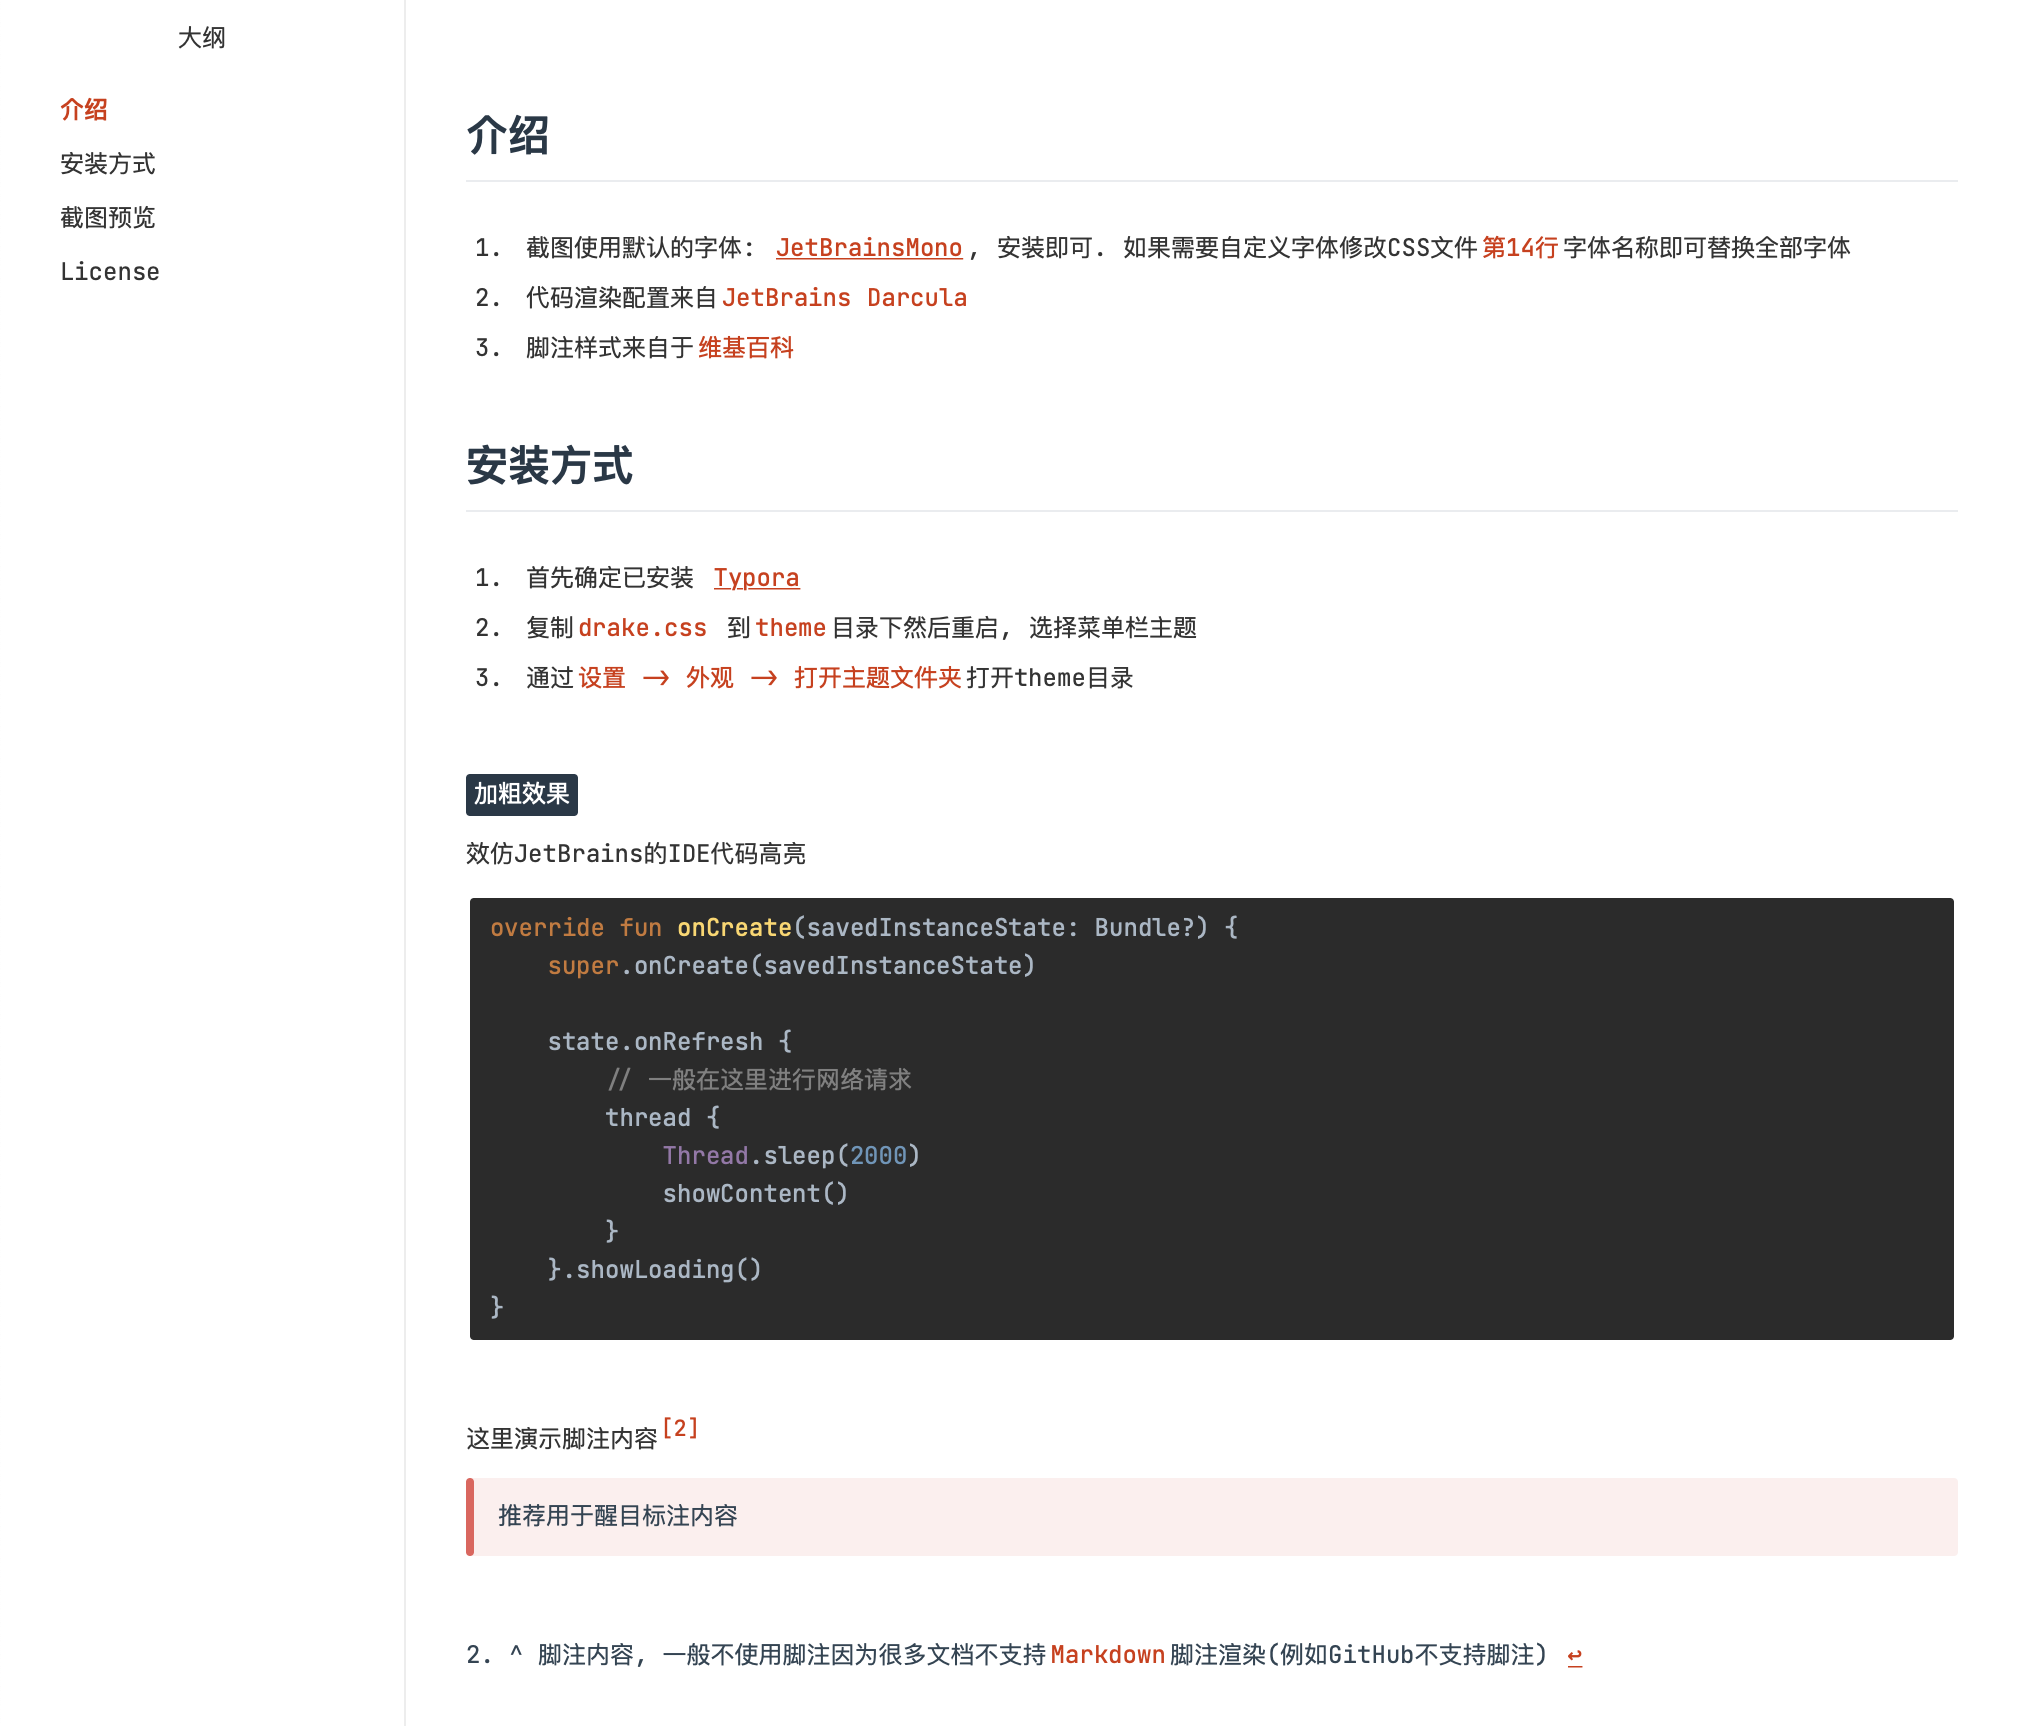
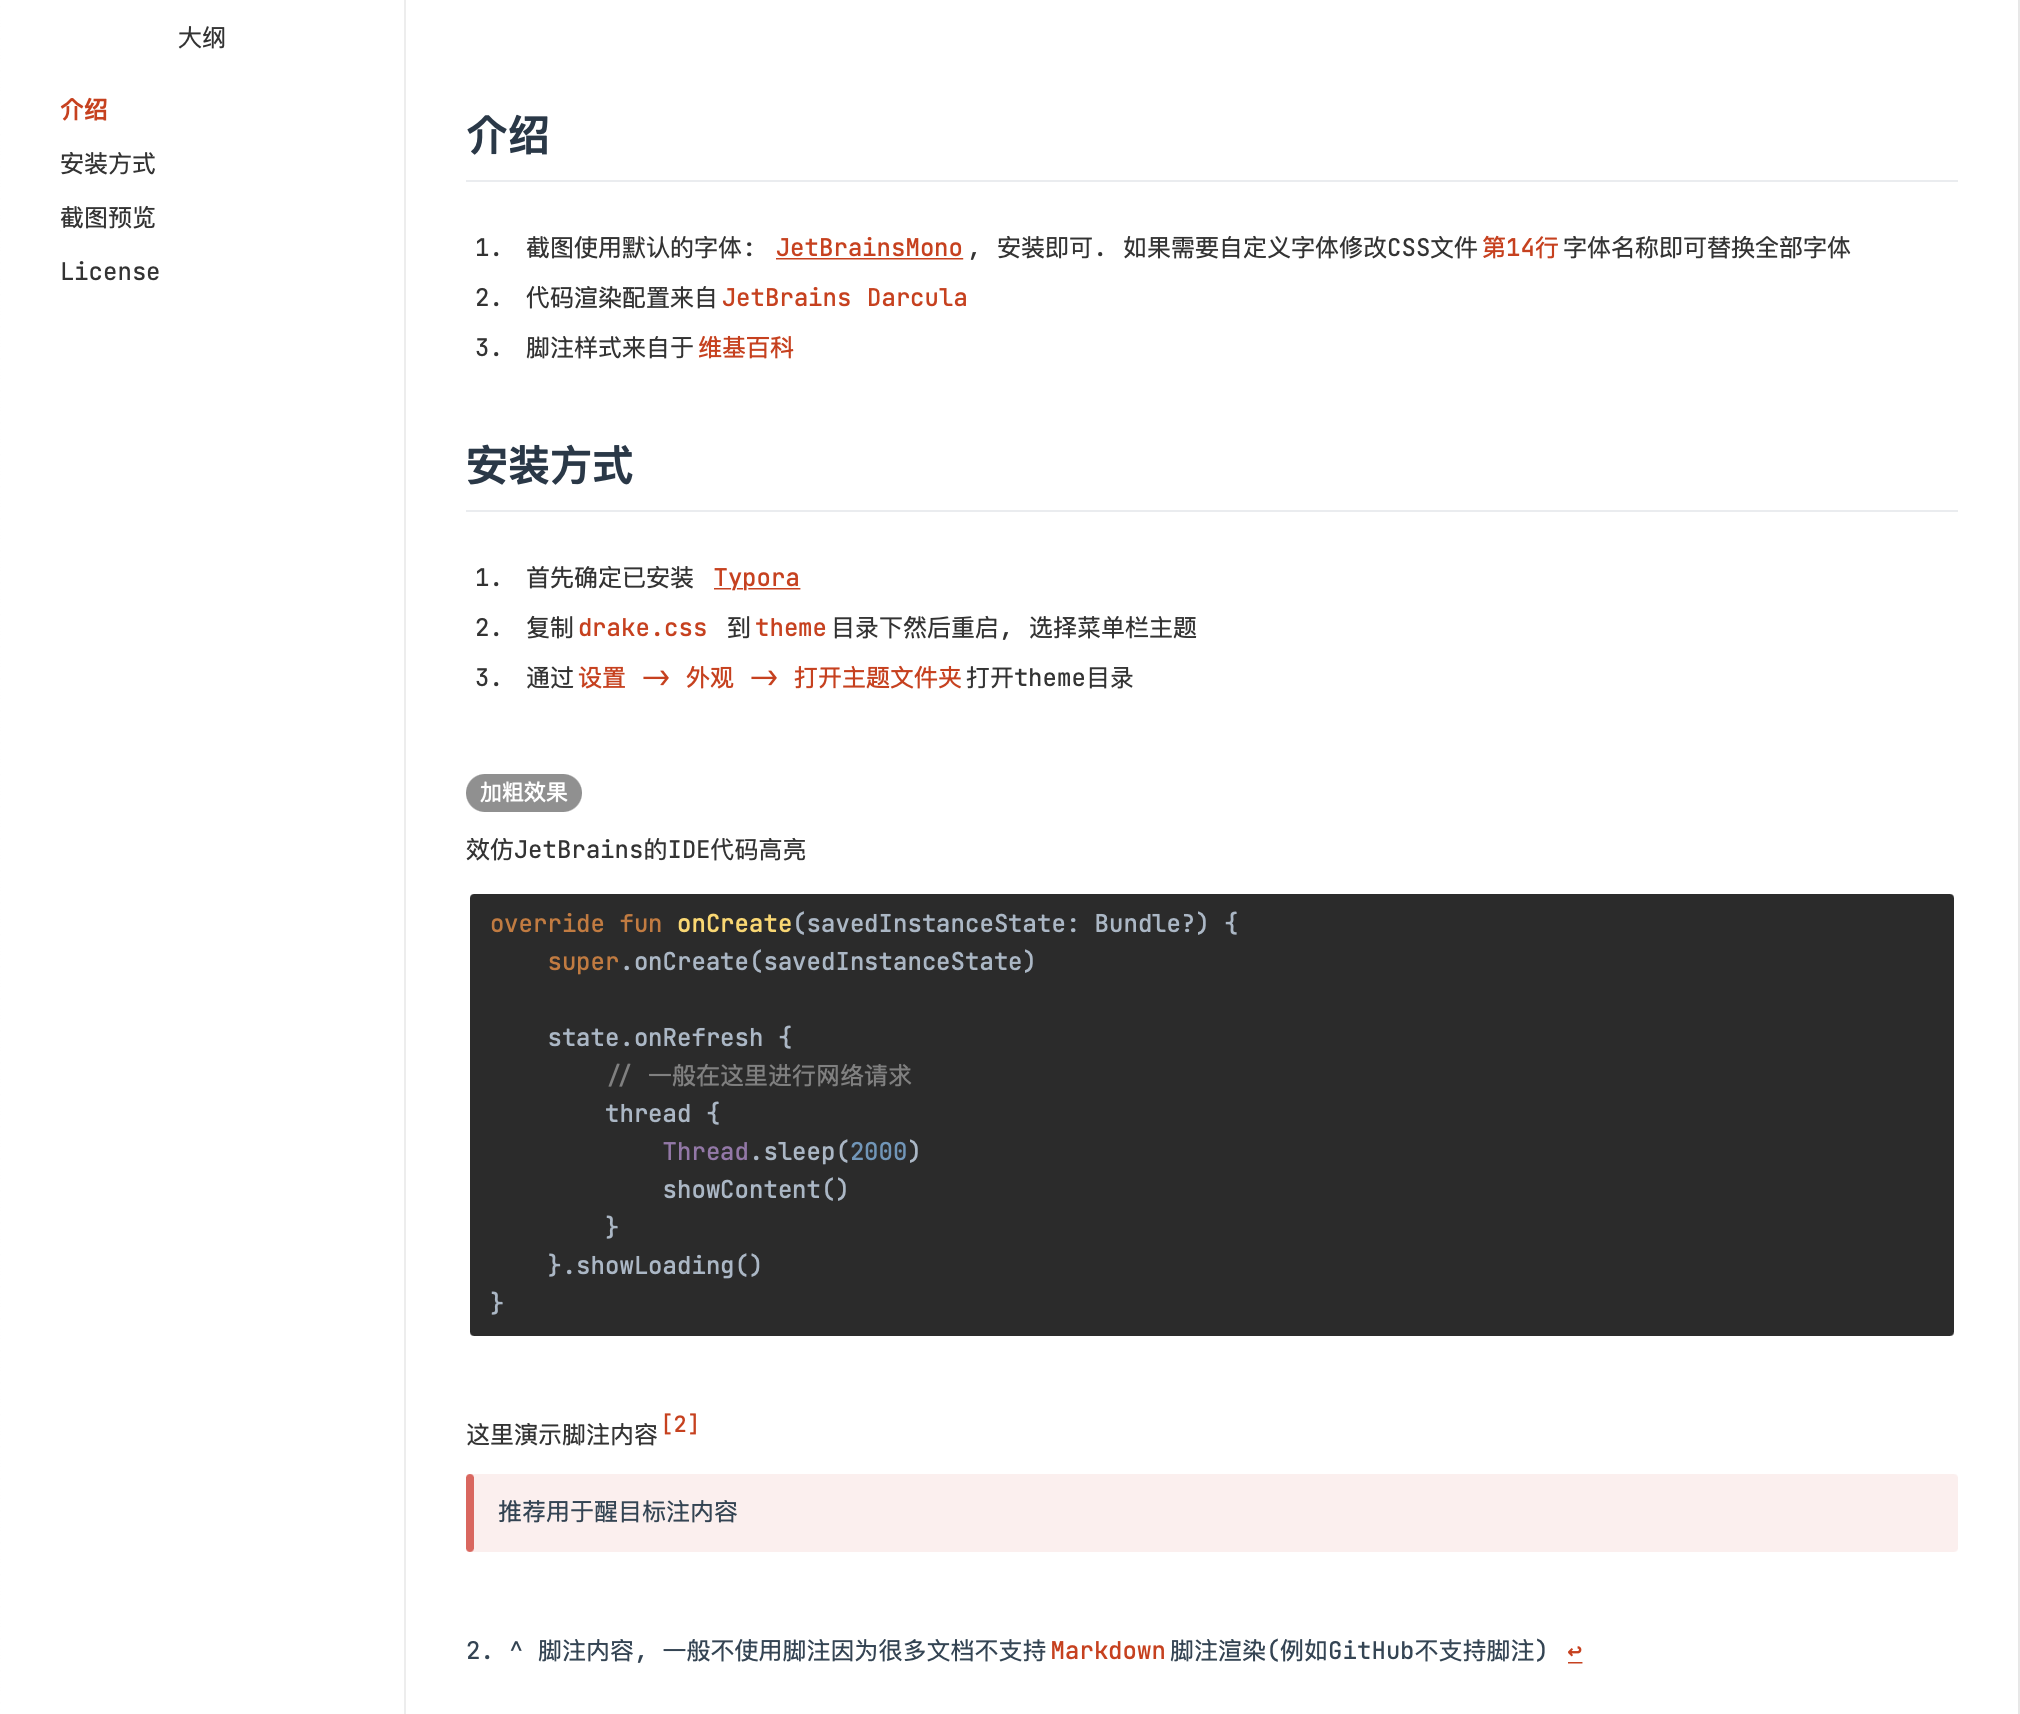
修改加粗效果

diff --git a/drake.css b/drake.css
@@ -258,9 +258,10 @@ blockquote:before {
     color: #ffffff;
     display: inline-block;
     font-weight: normal;
-    padding: 1px 4px;
-    background-color: #273849;
-    border-radius: 2px;
+    font-size: 0.9em;
+    padding: 0 7px;
+    background-color: #909090;
+    border-radius: 3em;
 }
 
 table {
